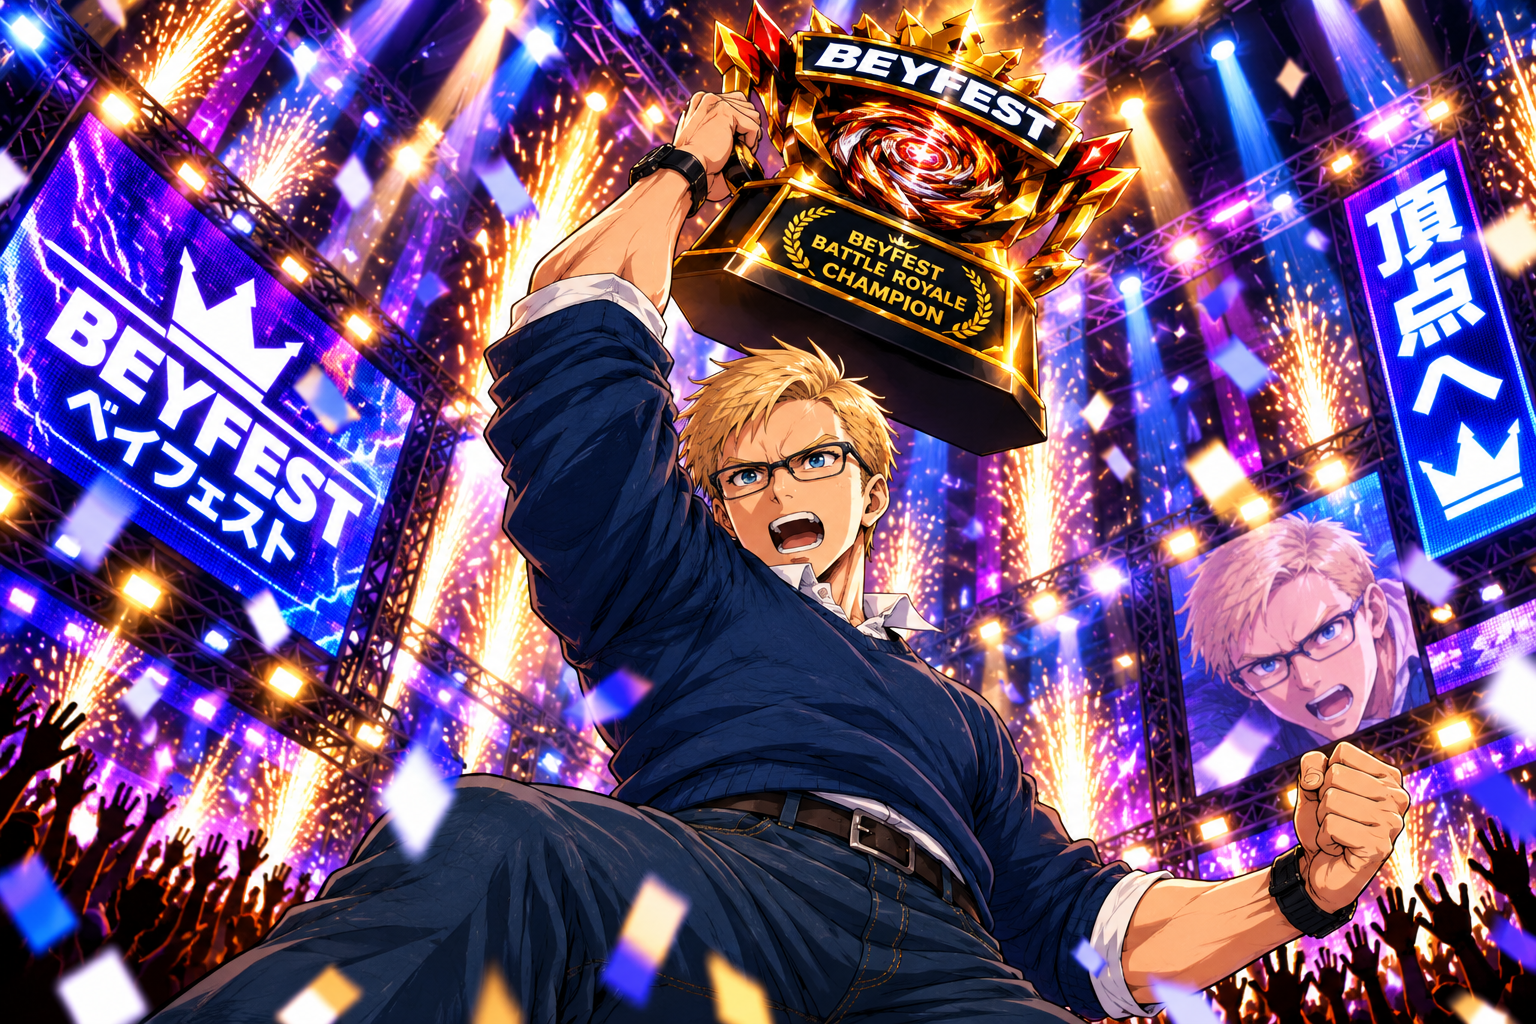
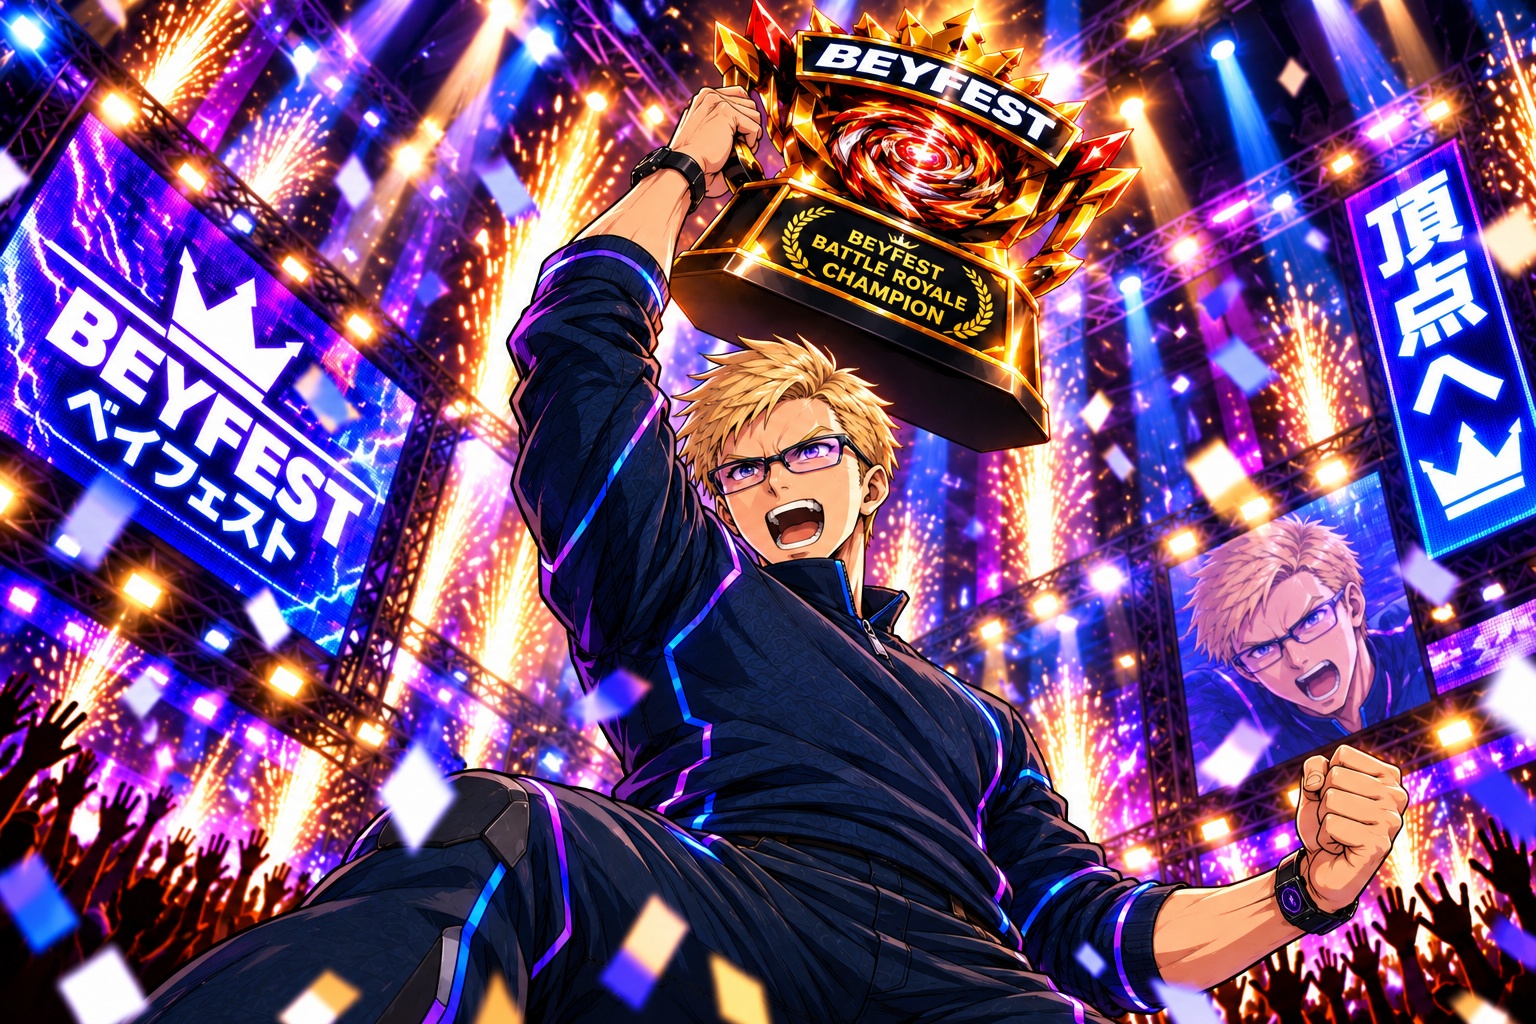
new Stancemancer victory and royale victory images with the tech outfit

diff --git a/fighter-art/prompts/stancemancer.md b/fighter-art/prompts/stancemancer.md
@@ -38,3 +38,15 @@ date for him; the original art wins.
 ## Left as is
 
 - A small, symmetric square-bracket emblem on the right sleeve (not lettering).
+
+## Victory images (2026-10-28): approved
+
+The same recipe as the others: a new chat with the old victory image (scene
+template), `approved/stancemancer.png` (character) and the Pugilist head close-up
+(rendering), named by what each shows. His face was already right, so the prompt kept
+the template's face and hair and changed only the outfit to the new tech top (high
+zip collar, glowing purple/blue seams, panelled trousers, smartwatch, tinted glasses).
+Both came out right first time.
+
+When saving downloads, check the file size against the generated image's size: the
+first save of the belt image grabbed an older file before the new one had finished.
